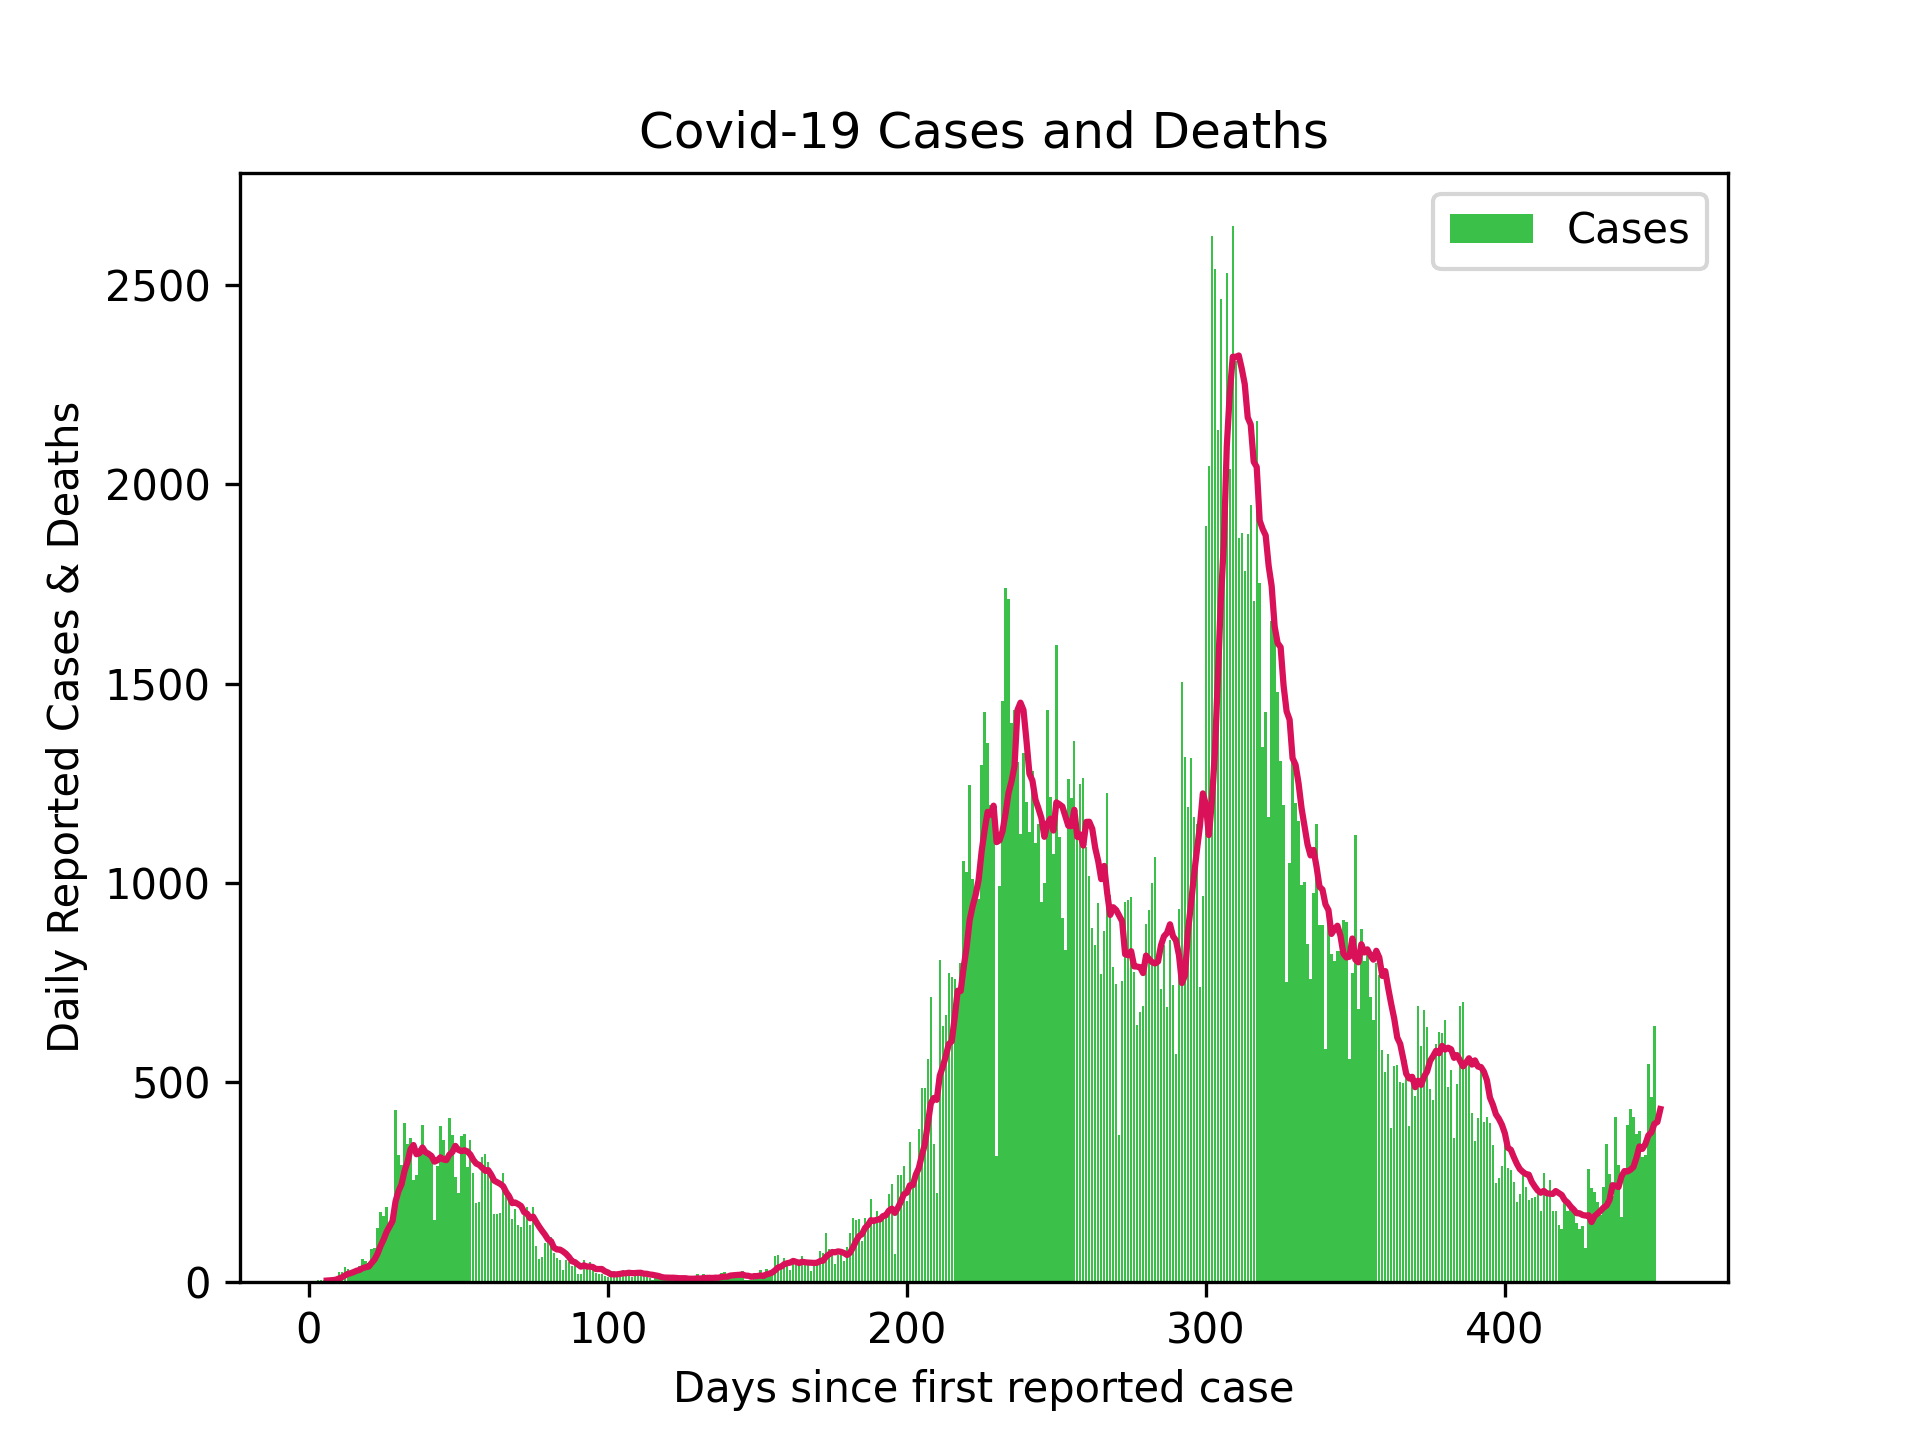
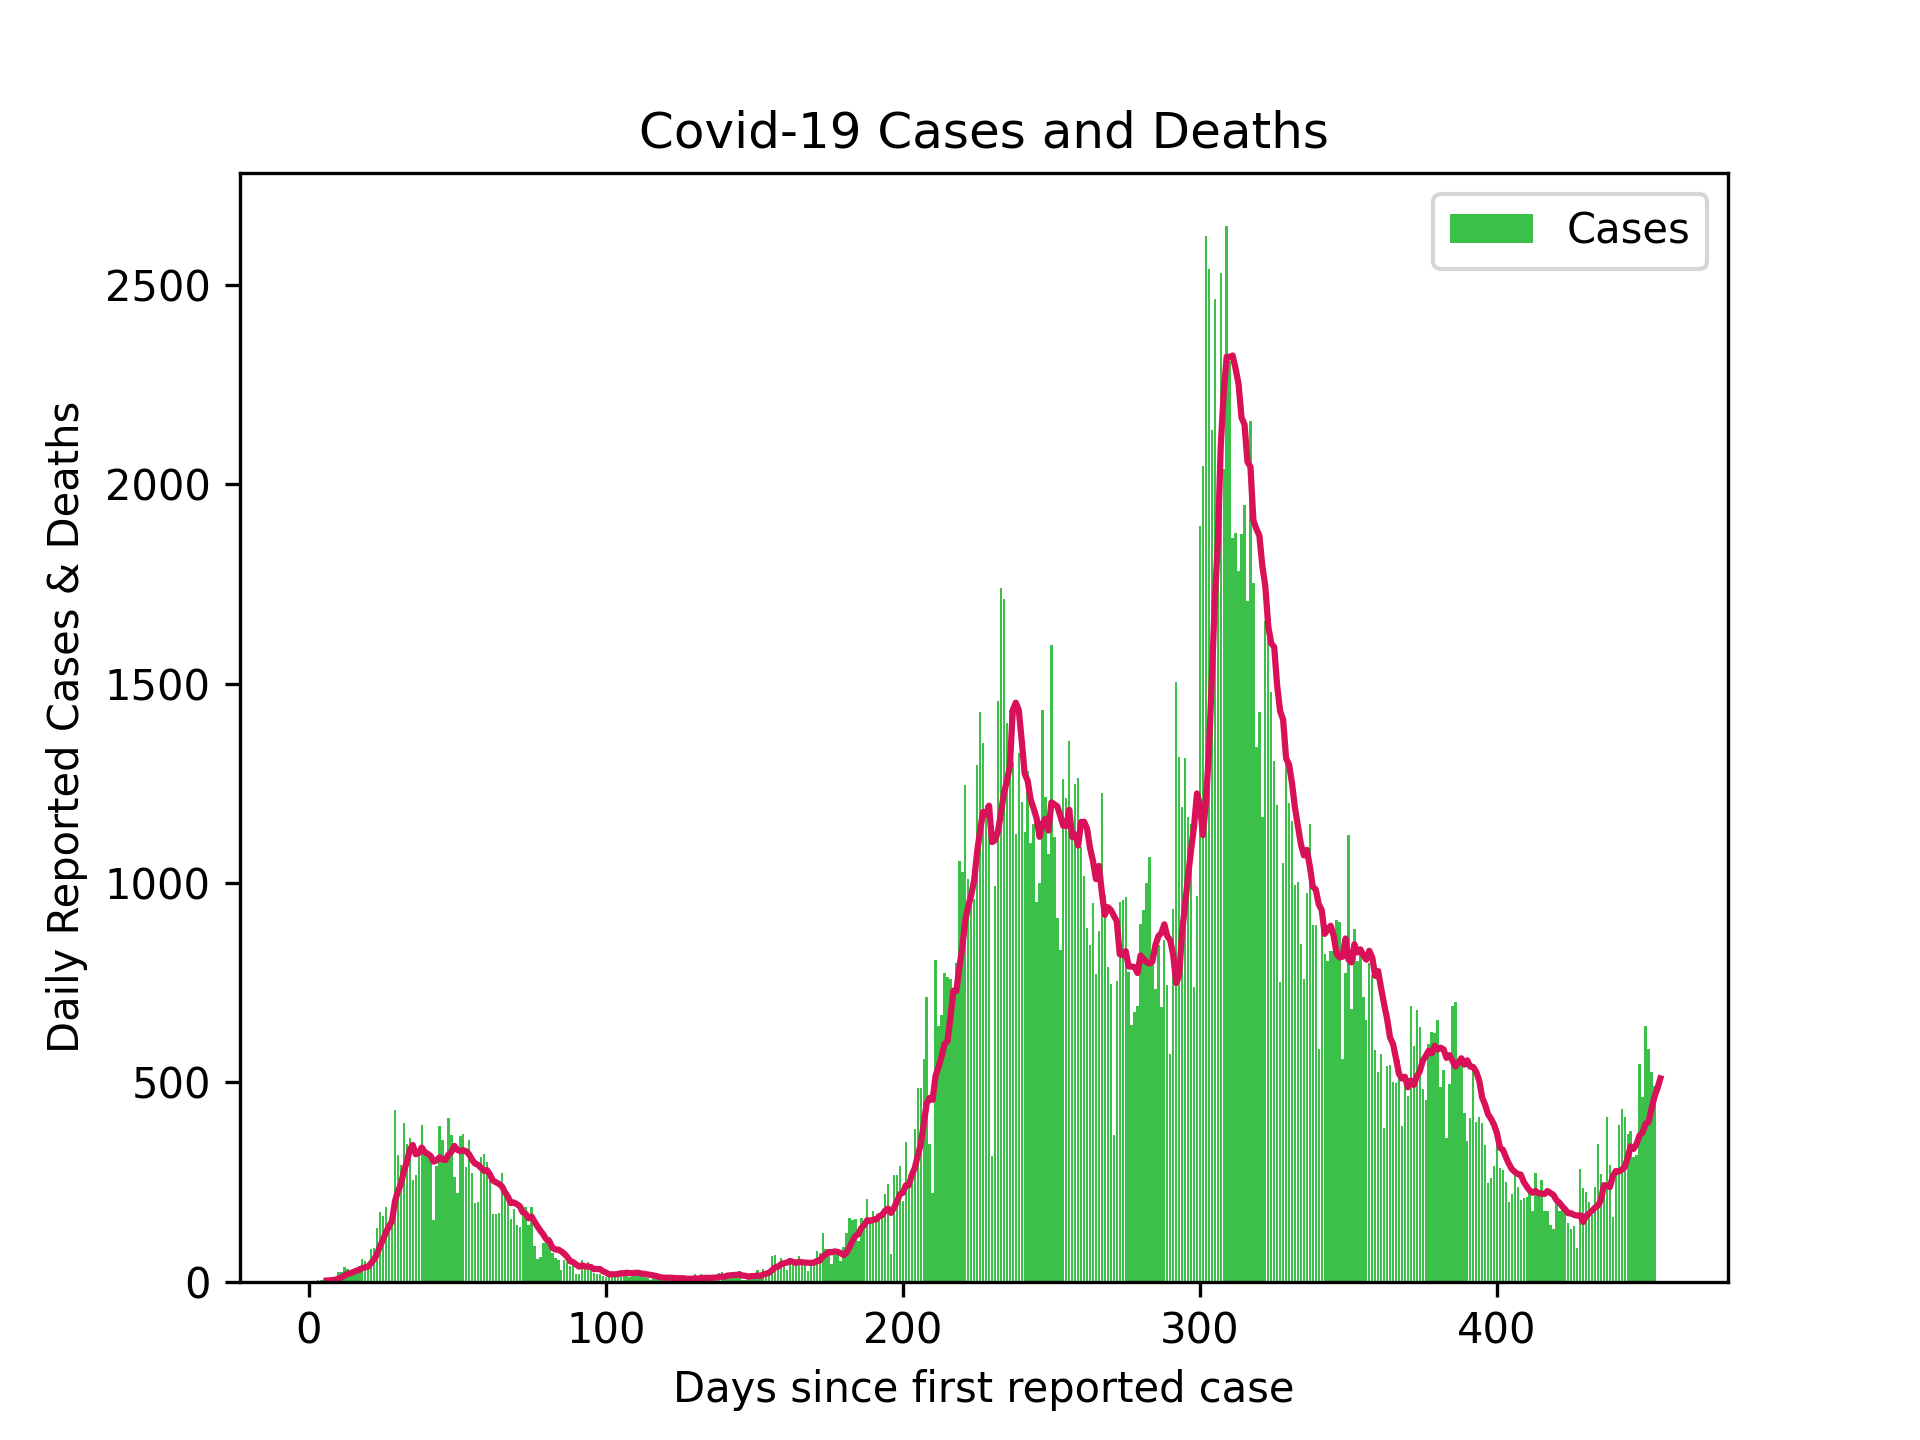
Updated Scottish cases 31/05/21

Changed region(s): [[0.4375, 0.1562, 0.875, 0.9375], [0.1875, 0.7812, 0.3438, 0.9375]]

diff --git a/README.md b/README.md
@@ -1,4 +1,4 @@
-# Scottish Cases 28/05/21
+# Scottish Cases 31/05/21
 
 ![alt](scottish_cases.png)
 
